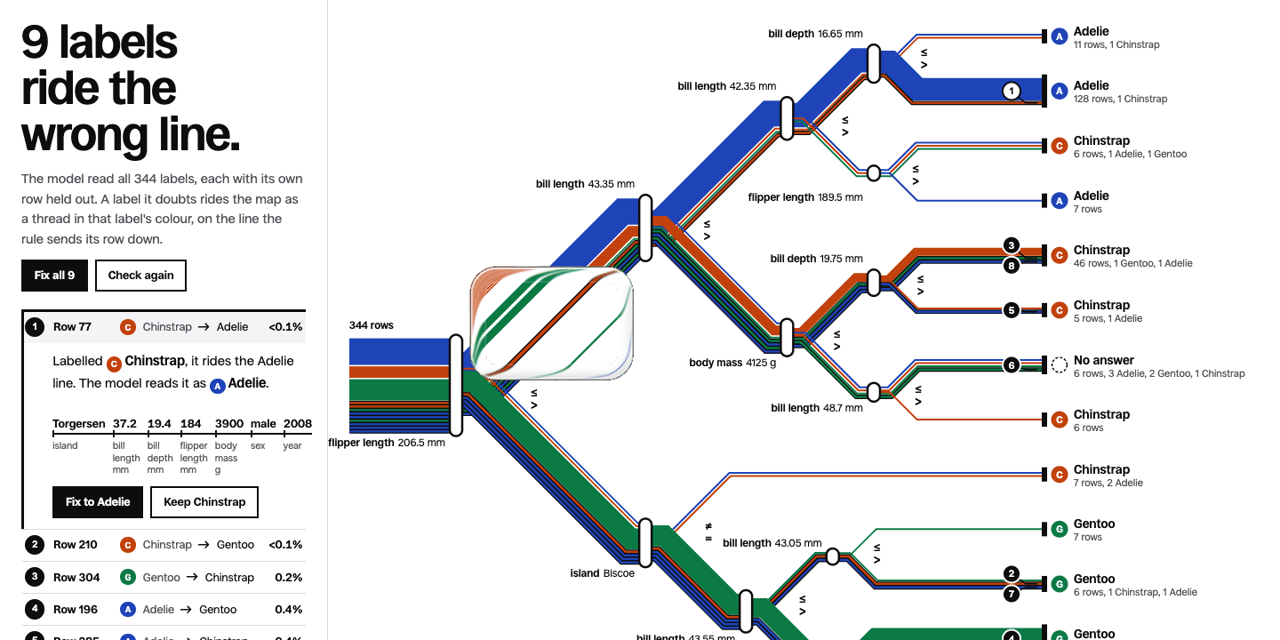
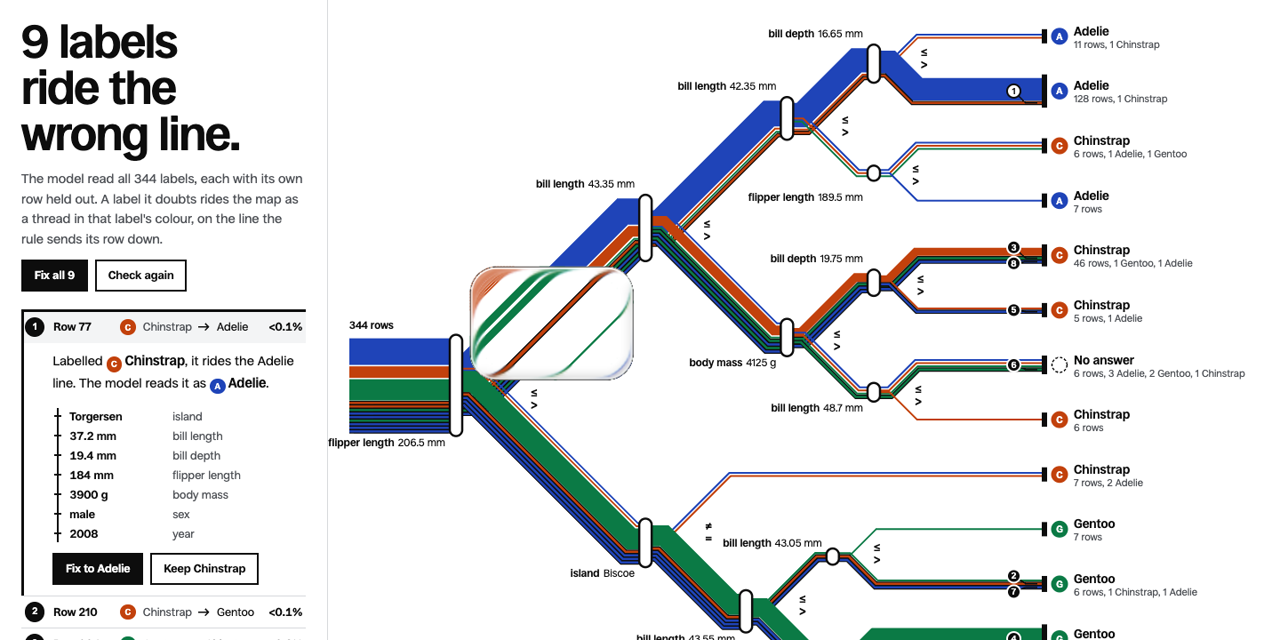
Refresh the interchange notes, hero and social preview

diff --git a/DESIGN.md b/DESIGN.md
@@ -51,25 +51,30 @@ The glass rests with the doubted thread through its middle, and never on a
 station. When a row is picked the glass rides its thread from the origin and
 rests mid-route on the thread at the first point where it covers no capsule,
 no terminus, not the origin's count and not the key, and, if it can, no type
-either (`restAlong` in `frontend/src/transit.ts`). Where only type is in the
+either (`restAlong` in `frontend/src/transit.ts`); of the points that pass, it
+takes the one whose flat middle shows the most separate bands, where the
+bands part. Where only type is in the
 way, the type moves, not the glass: a station's name, or its two signs
 together, step just clear of the glass, up or down, whichever is shorter, and
 step back when it moves on. Only when no point on the thread passes does the
 glass slide off it (`restNear`). The glass is 184 by 128 px, sized so every
 doubted row in the demo has such a point. During Fix all the glass lifts off
 between drops (90 ms) and sets down at the next rest, so on no frame of the
-ride does it cross type. All map type carries a 4 px white knockout, and steps
+ride does it cross type. With nothing selected, after a ride or once a row is
+let go, the glass lifts off and leaves the map clear; picking a row, the arrow
+keys or a drag bring it back. All map type carries a 4 px white knockout, and steps
 back by colour rather than opacity, so no thread strikes through it.
 
 The middle is the live vector map, scaled. Around it a WebGL shader draws an
 18 px bevel of clear glass from the same enlarged picture of the map, painted
 on a canvas in the same frame. Toward the rim the bevel reads the map farther
-and farther out, up to 2.6 bevel widths (as the steepening face of a thick
-edge does), so every band that reaches the edge bends into it and crowds
-together there, with red, green and blue a pixel apart. The face toward the
+and farther out, up to 1.2 bevel widths (as the steepening face of a thick
+edge does), and blurs what it reads as it goes, so every band that reaches the
+edge bends into it and crowds softly together there, with red, green and blue
+a pixel apart. The face toward the
 top-left light brightens, the opposite face darkens, a bright specular line
-runs just inside the rim, strongest toward the light, a faint seam marks
-where the flat middle begins, and a hairline ink edge closes it
+runs just inside the rim, strongest toward the light, the bevel fades into
+the flat middle over two pixels, and a hairline ink edge closes it
 (`frontend/src/lens.ts`). Without WebGL, and until the shader is ready, a flat
 window with an ink ring stands in. While dragged, the glass stretches along
 its motion and springs back.
@@ -80,8 +85,10 @@ interchange it says how many rows meet there and which way they go, in words:
 it gives the line's counts and its first rows. A doubted row opens in place in
 the list with one sentence, "Labelled Chinstrap, it rides the Adelie line. The
 model reads it as Adelie.", each label with its line roundel, then the row's
-values as stops on one ruled line, a tick at each, the value above and its
-column's name below, and Fix and Keep.
+values as stops down one ruled line, as on a strip map: a tick at each, the
+value with its unit ("3900 g"), then the column's name, and Fix and Keep.
+Columns are named the same way everywhere: "bill length" on the map and in the
+row, "bill length mm" where no value carries the unit.
 
 ## Second moment: the re-route
 
@@ -98,21 +105,24 @@ through the doubts in rank order. The first three drops take about 0.8 s each,
 so the first is believed; the rest follow 250 ms apart. The drops run on the
 page; the labels go to the server one by one behind them, and the map holds
 the rule it had until the server has refitted on every new label and the new
-rule is in. Until then the headline counts the drops as they land, "9 fixed.
-Refitting…", and Finish now goes once the last drop is down. While the map steps
-back, each terminus taking a row stays in full ink and its count flashes its
+rule is in. Each fixed thread stays whole in its new line's colour, cased, at
+full strength, until then. The headline counts the drops as they land, "9
+fixed. Refitting…", and Finish now goes once the last drop is down. While the
+server refits, the glass lifts off, a progress line runs under the headline,
+and the lede says what is happening: "All 9 labels are in. The server is
+fitting the rule again on them; the map changes when it lands." Each sentence
+of the headline starts its own line, and a number never leaves its noun.
+While the map steps back, each terminus taking a row stays in full ink and its count flashes its
 line's colour as it changes, and the notice column stays on the list. Esc, or
-the button, now "Finish now", lands the rest at once. When the ride ends, and
-again once the refitted map lands, the glass settles on the nearest stretch of
-track that passes the same test (`clearSpot`), else on the nearest white with
-no track under it (`openSpot`). When the refitted rule lands, each old
+the button, now "Finish now", lands the rest at once. When the refitted rule lands, each old
 terminus whose rows now mostly reach a line that a larger old terminus also
-reaches was retired. It stays as a dashed bar where it stood, and the notice
-column lists it struck through, "Chinstrap, 5 rows merges into Chinstrap, 51
-rows", from the old and new rules. Two seconds after the new map is laid, the
-bars fold into their lines one after another and a count over the list runs
-down with each, 13 to 9. The headline then reports the change, for example
-"9 fixed, 4 fewer termini."
+reaches was retired. On the old map, still in place, each is struck through
+and its counts read "merges into Chinstrap, 51 rows", from the old and new
+rules. After two seconds they fold, one after another, into the terminus that
+takes their rows, while a count over the notice's merge list runs down with
+each, 13 to 9. Only then is the new map laid. The merge list stays until the
+next ride or check. The headline then reports the change: "9 fixed. 4 fewer
+termini."
 
 ## Tokens
 
@@ -181,17 +191,17 @@ against all the track, the capsules, the origin's count and the type already
 set (`labelChoices` and `layoutMap` in `frontend/src/transit.ts`), and the map
 is drawn narrower until every station's type ends before the roundel column.
 Termini take two lines: the answer, then the counts. The branch signs are set
-at 14 px, the names at 12. Rank roundels stand in
-their own column 24 px before the terminus bar, stacked about the terminus so
-they touch neither each other nor the bar, each joined to its thread by a
-short ink leader. Rows the audit doubts
+at 14 px, the names at 12. Rank roundels, 15 px across, stand in their own
+column 24 px before the terminus bar, each rank in its own slot 18 px from the
+next, stacked about the terminus, each joined to its thread by a short ink
+leader. Rows the audit doubts
 but that have too few values to place are listed under the doubts, not drawn,
 so the headline and the list count the same rows.
 
 Under 40rem the headline leads, with a still overview of the whole map under
 it: laid out at desk size without type and scaled to the column, with no glass.
-Its termini and rank roundels keep their desk size, initials and numbers at
-11 px, the ranks side by side before their terminus. An opened row's values sit
+Its termini and rank roundels keep their desk size, the ranks side by side
+before their terminus in the same 18 px slots. An opened row's values sit
 16 px in from its rule.
 Each doubted row then carries its own strip map, as in a train car: its
 label's line, a stop per test, the terminus bar and the roundel of the line it
